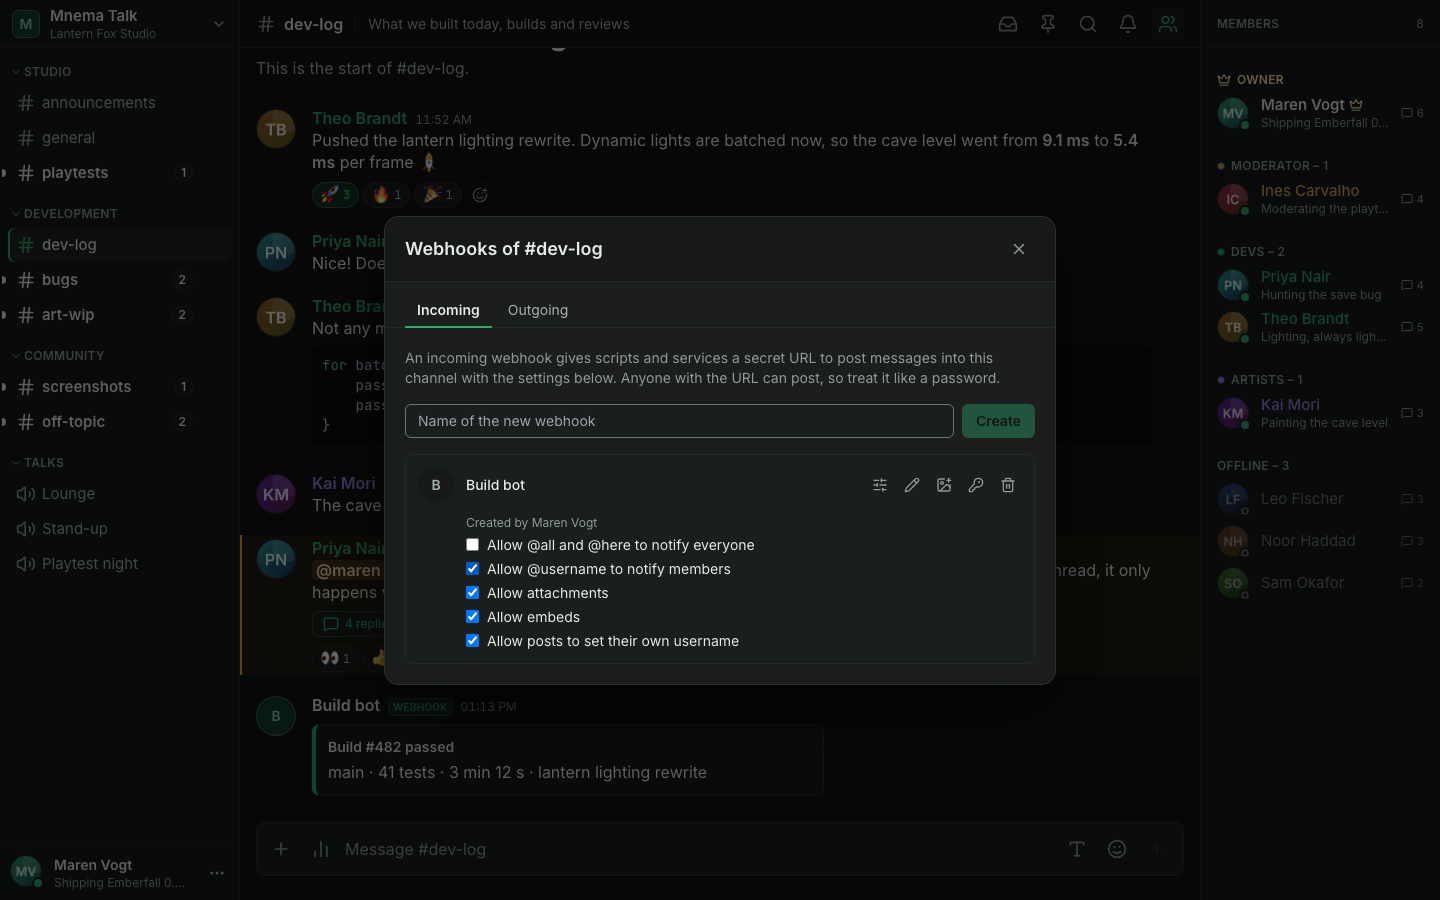
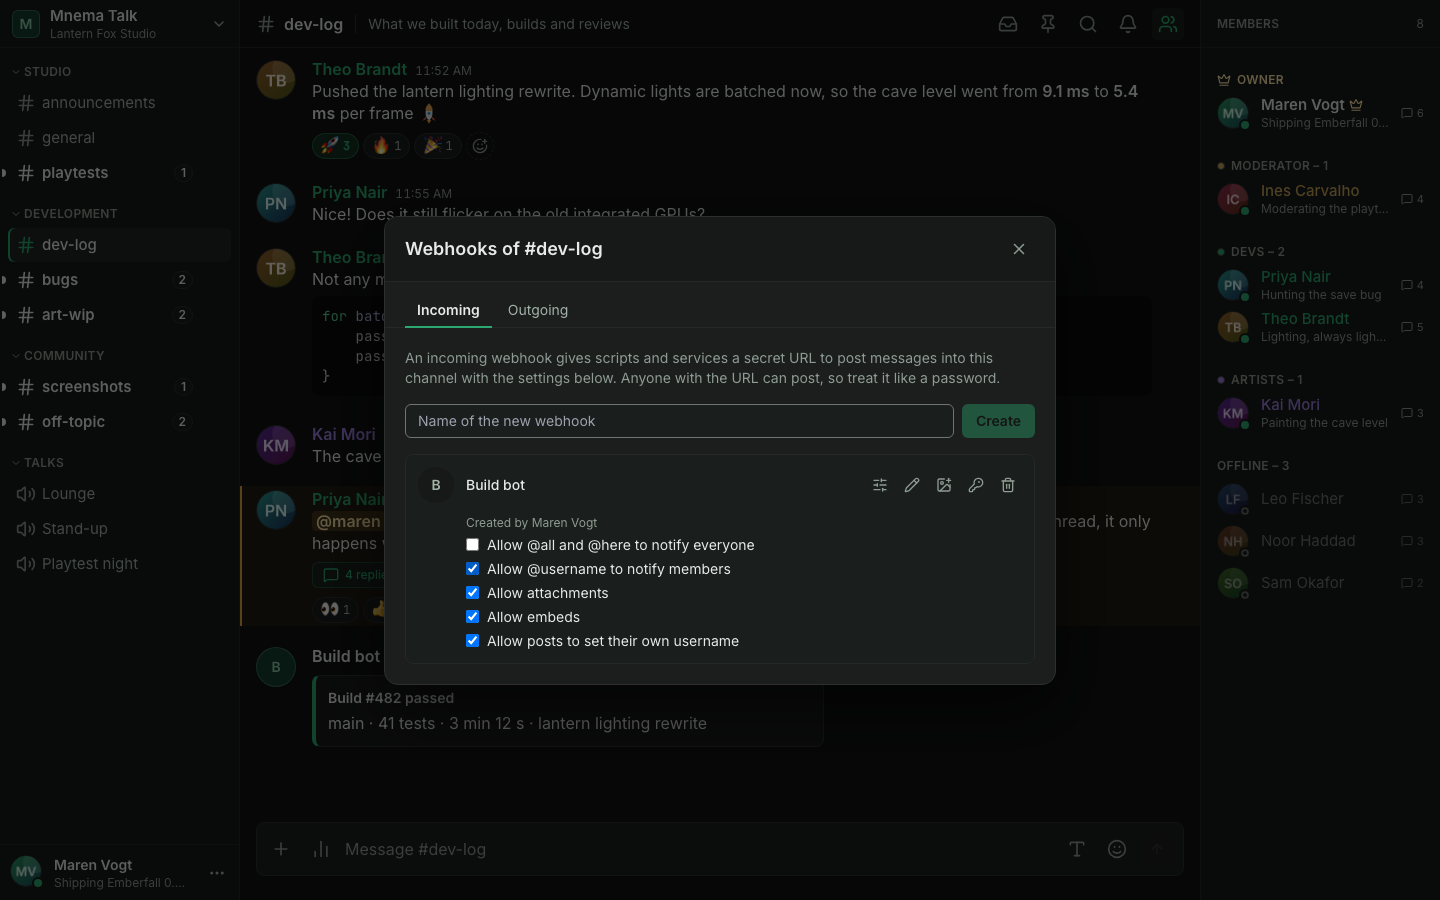
fix: 12-hour times without a leading zero, mail language, README chat shot (#364)
* fix: 12-hour times without a leading zero, mail language, README chat shot

Times: a 12-hour clock writes 1:13 PM, not 01:13 PM, in chat, threads,
inbox, search and the unread divider; 24-hour locales keep 13:13.
Mail: verification, reset and security-alert mails share one language
rule (stored UI language, else the request's Accept-Language, else the
instance default); documented in doc/operations.md.
README: the chat shot starts cleanly at a message; shots with times
regenerated.

* docs: README shots start at a message boundary in the capture script

---------

diff --git a/web/src/composables/formatTime.test.ts b/web/src/composables/formatTime.test.ts
@@ -1,0 +1,31 @@
+import { afterEach, describe, expect, it } from 'vitest'
+import { formatTime } from './useMessageActions'
+import { setLocale } from '../i18n'
+
+// Local wall-clock time, so the expectation does not depend on the runner's zone.
+const at = (h: number, m: number) => new Date(2026, 9, 23, h, m).toISOString()
+// Some ICU builds use a narrow no-break space before AM/PM.
+const plain = (s: string) => s.replace(/\s/g, " ")
+
+describe('formatTime', () => {
+  afterEach(() => setLocale('en'))
+
+  it('writes a 12-hour clock without a leading zero in English', () => {
+    setLocale('en')
+    expect(plain(formatTime(at(13, 13)))).toBe('1:13 PM')
+    expect(plain(formatTime(at(11, 52)))).toBe('11:52 AM')
+    expect(plain(formatTime(at(12, 4)))).toBe('12:04 PM')
+    expect(plain(formatTime(at(0, 5)))).toBe('12:05 AM')
+    expect(plain(formatTime(at(9, 0)))).toBe('9:00 AM')
+  })
+
+  it('keeps the 24-hour clock in German', () => {
+    setLocale('de')
+    expect(formatTime(at(13, 13))).toBe('13:13')
+    expect(formatTime(at(9, 5))).toBe('09:05')
+  })
+
+  it('is empty without a date', () => {
+    expect(formatTime(null)).toBe('')
+  })
+})

diff --git a/web/src/composables/useUnreadDivider.ts b/web/src/composables/useUnreadDivider.ts
@@ -4,6 +4,7 @@ import { useChatStore } from '../stores/chat'
 import { useAuthStore } from '../stores/auth'
 import { firstUnreadId } from '../lib/chatLogic'
 import { t, locale } from '../i18n'
+import { clockTimeOptions } from '../lib/time'
 
 export function useUnreadDivider() {
   const chatStore = useChatStore()
@@ -25,8 +26,8 @@ export function useUnreadDivider() {
     const d = new Date(dividerSince.value ?? 0)
     const sameDay = d.toDateString() === new Date().toDateString()
     const time = sameDay
-      ? d.toLocaleTimeString([locale.value], { hour: '2-digit', minute: '2-digit' })
-      : d.toLocaleString([locale.value], { day: 'numeric', month: 'short', hour: '2-digit', minute: '2-digit' })
+      ? d.toLocaleTimeString([locale.value], clockTimeOptions(locale.value))
+      : d.toLocaleString([locale.value], { day: 'numeric', month: 'short', ...clockTimeOptions(locale.value) })
     return t('chat.newSinceDivider', { time })
   }
 

diff --git a/web/src/components/ThreadSidebar.vue b/web/src/components/ThreadSidebar.vue
@@ -1,4 +1,5 @@
 <script setup lang="ts">
+import { clockTimeOptions } from '../lib/time'
 import type { Message } from '../types/domain'
 import { caughtErrorMessage } from '../lib/api'
 import { ref, computed, nextTick, watch, onMounted, onUnmounted } from 'vue'
@@ -176,7 +177,7 @@ async function handleFileUpload(e: Event) {
 function formatDate(dateStr?: string) {
   if (!dateStr) return ''
   const d = new Date(dateStr)
-  return d.toLocaleDateString([locale.value], { day: '2-digit', month: '2-digit' }) + ' ' + d.toLocaleTimeString([locale.value], { hour: '2-digit', minute: '2-digit' })
+  return d.toLocaleDateString([locale.value], { day: '2-digit', month: '2-digit' }) + ' ' + d.toLocaleTimeString([locale.value], clockTimeOptions(locale.value))
 }
 </script>
 

diff --git a/web/src/composables/useMuteMenu.ts b/web/src/composables/useMuteMenu.ts
@@ -6,6 +6,7 @@ import type { NotifyLevel } from '../types/domain'
 import type { ContextMenuItem } from '../components/menuTypes'
 import { useChatStore } from '../stores/chat'
 import { t } from '../i18n'
+import { clockTimeOptions } from '../lib/time'
 
 export type NotifyTarget = { kind: 'channel' | 'category'; id: string }
 
@@ -25,7 +26,7 @@ export function formatMuteEnd(iso: string, now = new Date()): string {
   const end = new Date(iso)
   const sameDay = end.toDateString() === now.toDateString()
   return sameDay
-    ? end.toLocaleTimeString([], { hour: '2-digit', minute: '2-digit' })
+    ? end.toLocaleTimeString([], clockTimeOptions())
     : end.toLocaleString([], { dateStyle: 'short', timeStyle: 'short' })
 }
 

diff --git a/web/src/lib/time.ts b/web/src/lib/time.ts
@@ -1,0 +1,13 @@
+// One place for how a time of day is written. A 12-hour clock gets
+// `hour: 'numeric'`: no leading zero on the hour ("1:13 PM", like most chat
+// apps; '2-digit' would force "01:13 PM"). A 24-hour locale keeps two digits
+// ("09:05", "13:13"), as before.
+export function clockTimeOptions(locale?: string): Intl.DateTimeFormatOptions {
+  let twelveHour = false
+  try {
+    twelveHour = new Intl.DateTimeFormat(locale || undefined, { hour: 'numeric' }).resolvedOptions().hour12 === true
+  } catch {
+    // Unknown locale tag: fall back to the 24-hour form.
+  }
+  return { hour: twelveHour ? 'numeric' : '2-digit', minute: '2-digit' }
+}

diff --git a/web/src/components/SearchResultItem.vue b/web/src/components/SearchResultItem.vue
@@ -1,4 +1,5 @@
 <script setup lang="ts">
+import { clockTimeOptions } from '../lib/time'
 import type { Message } from '../types/domain'
 import type { ChatSearchRoot } from '../types/rest'
 import { computed } from 'vue'
@@ -27,7 +28,7 @@ const rootParts = computed(() => splitHighlight(previewText(props.root?.snippet)
 
 function formatDate(iso: string) {
   if (!iso) return ''
-  return new Date(iso).toLocaleDateString(locale.value, { month: 'short', day: 'numeric', hour: '2-digit', minute: '2-digit' })
+  return new Date(iso).toLocaleDateString(locale.value, { month: 'short', day: 'numeric', ...clockTimeOptions(locale.value) })
 }
 </script>
 

diff --git a/web/src/composables/useMessageActions.ts b/web/src/composables/useMessageActions.ts
@@ -12,10 +12,11 @@ import { previewText } from '../lib/replies'
 import { shortcodesForEditing } from '../lib/customEmoji'
 import { confirm } from '../lib/confirm'
 import { t, locale } from '../i18n'
+import { clockTimeOptions } from '../lib/time'
 
 export function formatTime(dateStr: string | null | undefined) {
   if (!dateStr) return ''
-  return new Date(dateStr).toLocaleTimeString([locale.value], { hour: '2-digit', minute: '2-digit' })
+  return new Date(dateStr).toLocaleTimeString([locale.value], clockTimeOptions(locale.value))
 }
 
 // Reaction pickers live in elements with this class; presses inside one

diff --git a/web/src/components/MentionsInbox.vue b/web/src/components/MentionsInbox.vue
@@ -1,4 +1,5 @@
 <script setup lang="ts">
+import { clockTimeOptions } from '../lib/time'
 import type { Message } from '../types/domain'
 import { computed, ref, watch } from 'vue'
 import { Inbox, Hash, Volume2, CornerDownRight, Loader2 } from '@lucide/vue'
@@ -36,7 +37,7 @@ function pick(msg: Message) {
 
 function when(iso: string) {
   const d = new Date(iso)
-  return d.toLocaleDateString(locale.value, { month: 'short', day: 'numeric', hour: '2-digit', minute: '2-digit' })
+  return d.toLocaleDateString(locale.value, { month: 'short', day: 'numeric', ...clockTimeOptions(locale.value) })
 }
 </script>
 

diff --git a/internal/auth/mail_locale_test.go b/internal/auth/mail_locale_test.go
@@ -1,0 +1,53 @@
+package auth
+
+import (
+	"strings"
+	"testing"
+)
+
+func TestMailLocaleRule(t *testing.T) {
+	cases := []struct {
+		name, stored, header, want string
+	}{
+		{"stored language wins over the request", "de", "en-US,en;q=0.9", "de"},
+		{"stored english wins over a german request", "en", "de-DE,de;q=0.9", "en"},
+		{"no stored language uses the request", "", "de-DE,de;q=0.9,en;q=0.8", "de"},
+		{"q values rank the request languages", "", "fr;q=0.9,en;q=0.5,de;q=0.7", "de"},
+		{"unsupported request languages are skipped", "", "fr-FR,es;q=0.8,en;q=0.2", "en"},
+		{"q=0 means not acceptable", "", "de;q=0,fr", defaultMailLocale},
+		{"nothing known falls back to the instance default", "", "", defaultMailLocale},
+		{"an unknown stored value counts as none", "xx", "de", "de"},
+		{"no request, no stored language", "", "", defaultMailLocale},
+	}
+	for _, c := range cases {
+		t.Run(c.name, func(t *testing.T) {
+			if got := mailLocale(c.stored, c.header); got != c.want {
+				t.Fatalf("mailLocale(%q, %q) = %q, want %q", c.stored, c.header, got, c.want)
+			}
+		})
+	}
+}
+
+// Every mail to the same member comes out in one language for the same inputs.
+func TestAccountMailsShareOneLanguage(t *testing.T) {
+	h := &Handler{PublicURL: "https://talk.example.org"}
+	for _, tc := range []struct {
+		stored, header, marker string
+	}{
+		{"de", "en", "Hallo"},
+		{"en", "de", "Hello"},
+		{"", "de-DE", "Hallo"},
+		{"", "", "Hello"},
+	} {
+		loc := mailLocale(tc.stored, tc.header)
+		for name, body := range map[string]string{
+			"verify": h.verifyMail("a@example.org", loc, "mia", "tok").Body,
+			"reset":  h.resetMail("a@example.org", loc, "mia", "tok").Body,
+			"alert":  h.alertMail("a@example.org", loc, "mia").Body,
+		} {
+			if !strings.HasPrefix(body, tc.marker) {
+				t.Errorf("%s mail for stored=%q header=%q starts %q, want %q", name, tc.stored, tc.header, body[:8], tc.marker)
+			}
+		}
+	}
+}

diff --git a/internal/auth/mail_locale.go b/internal/auth/mail_locale.go
@@ -1,0 +1,57 @@
+package auth
+
+import (
+	"net/http"
+	"sort"
+	"strconv"
+	"strings"
+)
+
+// defaultMailLocale is the instance default: the language of a mail when the
+// account has no stored language and the request names none we ship.
+const defaultMailLocale = "en"
+
+// mailLocale is the one rule every account mail follows (verification, reset,
+// security alert): the member's stored UI language if there is one, otherwise
+// the first language of the triggering request's Accept-Language header that
+// the app ships, otherwise the instance default. acceptLanguage is "" when no
+// request of the member triggered the mail.
+func mailLocale(stored, acceptLanguage string) string {
+	if SupportedLocales[stored] {
+		return stored
+	}
+	if l := preferredLocale(acceptLanguage); l != "" {
+		return l
+	}
+	return defaultMailLocale
+}
+
+// requestLanguage is the Accept-Language header of r, to be handed to mailLocale.
+func requestLanguage(r *http.Request) string { return r.Header.Get("Accept-Language") }
+
+// preferredLocale returns the supported language the header ranks highest, or "".
+func preferredLocale(header string) string {
+	type choice struct {
+		lang string
+		q    float64
+	}
+	var choices []choice
+	for _, part := range strings.Split(header, ",") {
+		tag, params, _ := strings.Cut(strings.TrimSpace(part), ";")
+		q := 1.0
+		if v, ok := strings.CutPrefix(strings.TrimSpace(params), "q="); ok {
+			if f, err := strconv.ParseFloat(v, 64); err == nil {
+				q = f
+			}
+		}
+		primary, _, _ := strings.Cut(strings.ToLower(strings.TrimSpace(tag)), "-")
+		if q > 0 && SupportedLocales[primary] {
+			choices = append(choices, choice{primary, q})
+		}
+	}
+	sort.SliceStable(choices, func(i, j int) bool { return choices[i].q > choices[j].q })
+	if len(choices) == 0 {
+		return ""
+	}
+	return choices[0].lang
+}

diff --git a/internal/auth/email_handler.go b/internal/auth/email_handler.go
@@ -136,7 +136,7 @@ func (h *Handler) setEmail(w http.ResponseWriter, r *http.Request) error {
 	}
 	h.auditUser(r.Context(), u, "auth.email_set")
 	if !verified {
-		if err := h.sendVerification(r.Context(), u.ID); err != nil {
+		if err := h.sendVerification(r.Context(), u.ID, requestLanguage(r)); err != nil {
 			return err
 		}
 	}
@@ -209,7 +209,7 @@ func (h *Handler) resendVerification(w http.ResponseWriter, r *http.Request) err
 		httpx.WriteRateLimited(w, retry)
 		return nil
 	}
-	if err := h.sendVerification(r.Context(), u.ID); err != nil {
+	if err := h.sendVerification(r.Context(), u.ID, requestLanguage(r)); err != nil {
 		return err
 	}
 	w.WriteHeader(http.StatusNoContent)
@@ -218,7 +218,7 @@ func (h *Handler) resendVerification(w http.ResponseWriter, r *http.Request) err
 
 // sendVerification issues a link for the account's unconfirmed address and
 // mails it. It does nothing when mail is off or there is nothing to confirm.
-func (h *Handler) sendVerification(ctx context.Context, id uuid.UUID) error {
+func (h *Handler) sendVerification(ctx context.Context, id uuid.UUID, lang string) error {
 	if !h.mailEnabled() {
 		return nil
 	}
@@ -239,7 +239,7 @@ func (h *Handler) sendVerification(ctx context.Context, id uuid.UUID) error {
 	if err != nil {
 		return err
 	}
-	if err := h.sendMail(ctx, h.verifyMail(st.Address, st.Locale, st.Username, token)); err != nil {
+	if err := h.sendMail(ctx, h.verifyMail(st.Address, mailLocale(st.Locale, lang), st.Username, token)); err != nil {
 		return httpx.ErrUnavailable("the confirmation e-mail could not be sent")
 	}
 	return nil

diff --git a/internal/auth/password_reset.go b/internal/auth/password_reset.go
@@ -82,7 +82,8 @@ func (h *Handler) requestPasswordReset(w http.ResponseWriter, r *http.Request) e
 		return err
 	}
 	if allowed, _ := h.rec.perAddress.Allow(addressKey(email)); allowed {
-		h.background(func(ctx context.Context) { h.sendReset(ctx, email) })
+		lang := requestLanguage(r)
+		h.background(func(ctx context.Context) { h.sendReset(ctx, email, lang) })
 	}
 	w.WriteHeader(http.StatusAccepted)
 	return nil
@@ -91,7 +92,7 @@ func (h *Handler) requestPasswordReset(w http.ResponseWriter, r *http.Request) e
 // sendReset looks the address up and, only for an active account with that
 // confirmed address that has not used up its hourly budget, mails a link.
 // Every other case ends silently.
-func (h *Handler) sendReset(ctx context.Context, email string) {
+func (h *Handler) sendReset(ctx context.Context, email, lang string) {
 	id, username, locale, stored, err := userByVerifiedEmail(ctx, h.Sessions.DB, email)
 	if err != nil {
 		if !notFound(err) {
@@ -109,7 +110,7 @@ func (h *Handler) sendReset(ctx context.Context, email string) {
 		return
 	}
 	// A failed send leaves the token; it expires unused.
-	_ = h.sendMail(ctx, h.resetMail(stored, locale, username, token))
+	_ = h.sendMail(ctx, h.resetMail(stored, mailLocale(locale, lang), username, token))
 }
 
 // confirmPasswordReset handles POST /api/auth/password-reset/confirm.
